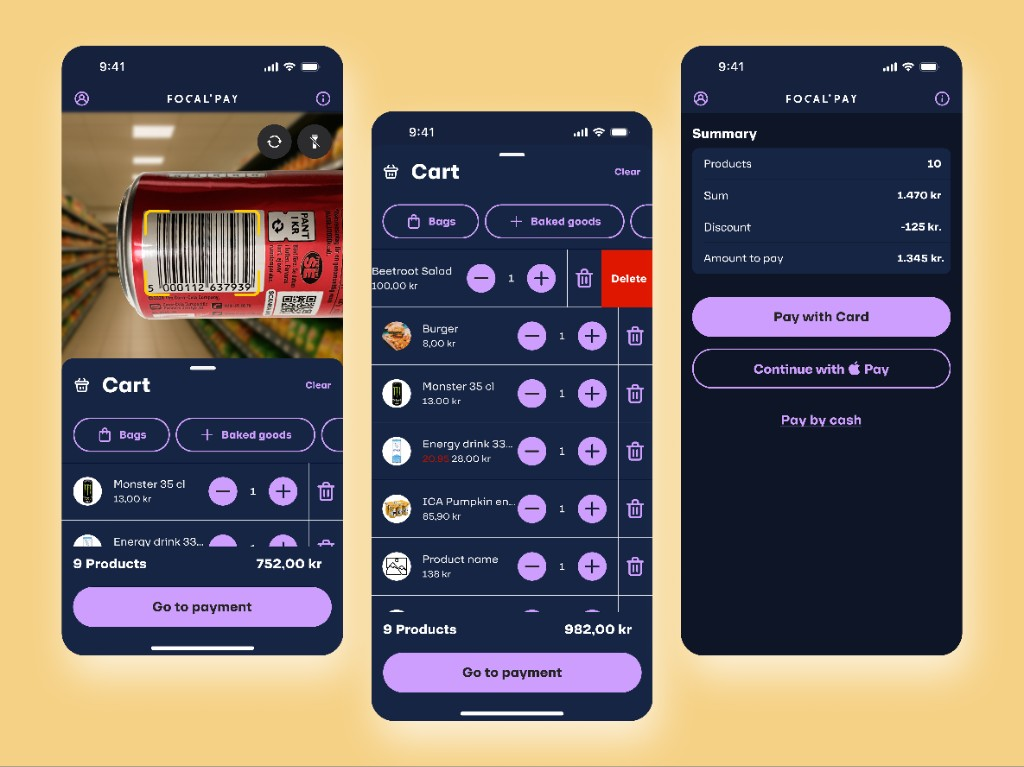
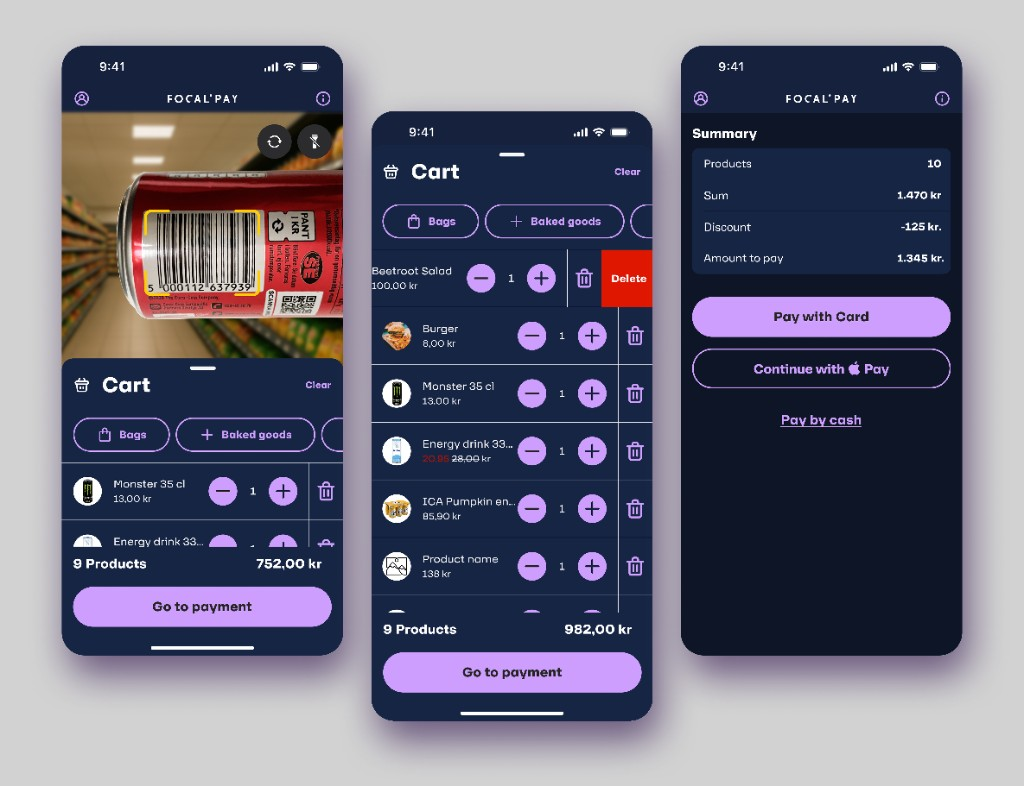
Portfolio: reorder case studies and refresh mobile app thumbnail
List projects as POS, Backoffice, Mobile shopping, then Healthcare.
Replace mobile-customer-shopping-app-thumbnail.png with the new
three-screen mockup (1024×786) and align alt text and dimensions.

Made-with: Cursor

diff --git a/index.html b/index.html
@@ -844,6 +844,23 @@ body.lh #ring { width: 60px; height: 60px; border-color: rgba(200,98,42,0.5); }
     </div>
   </a>
 
+  <a class="project-item" href="mobile-app.html">
+    <div class="proj-image-wrap proj-image-wrap--photo">
+      <img src="mobile-customer-shopping-app-thumbnail.png" alt="Focalpay mobile shopping app — three screens: live barcode scan, cart with line items and Go to payment, and checkout summary with card, Apple Pay, and cash" width="1024" height="786" loading="lazy" decoding="async">
+    </div>
+    <div class="proj-text">
+      <div class="proj-meta">Focalpay AB · 2023–2024</div>
+      <h2 class="proj-title">Mobile Customer Shopping App</h2>
+      <p class="proj-desc">Redesigning the onboarding and checkout journey for a B2C mobile app — creating a frictionless, personal experience across iOS and Android.</p>
+      <div class="proj-tags">
+        <span class="tag">Mobile UX</span>
+        <span class="tag">A/B Testing</span>
+        <span class="tag gray">iOS & Android</span>
+      </div>
+      <span class="proj-link">View Project</span>
+    </div>
+  </a>
+
   <a class="project-item" href="healthcare.html">
     <div class="proj-image-wrap proj-image-wrap--photo">
       <img src="healthcare-provider-thumbnail.png?v=20260324" alt="Healthcare Provider Survey Application — dashboard on desktop and laptop with surveys, analytics, and municipality performance" width="1024" height="725" loading="lazy" decoding="async">
@@ -879,23 +896,6 @@ body.lh #ring { width: 60px; height: 60px; border-color: rgba(200,98,42,0.5); }
     </div>
   </a>
   -->
-
-  <a class="project-item" href="mobile-app.html">
-    <div class="proj-image-wrap proj-image-wrap--photo">
-      <img src="mobile-customer-shopping-app-thumbnail.png" alt="Focalpay mobile shopping app — three screens: barcode scan, cart with bags and baked goods, and payment summary with card, Apple Pay, and cash" width="1024" height="767" loading="lazy" decoding="async">
-    </div>
-    <div class="proj-text">
-      <div class="proj-meta">Focalpay AB · 2023–2024</div>
-      <h2 class="proj-title">Mobile Customer Shopping App</h2>
-      <p class="proj-desc">Redesigning the onboarding and checkout journey for a B2C mobile app — creating a frictionless, personal experience across iOS and Android.</p>
-      <div class="proj-tags">
-        <span class="tag">Mobile UX</span>
-        <span class="tag">A/B Testing</span>
-        <span class="tag gray">iOS & Android</span>
-      </div>
-      <span class="proj-link">View Project</span>
-    </div>
-  </a>
 
 </div>
 
